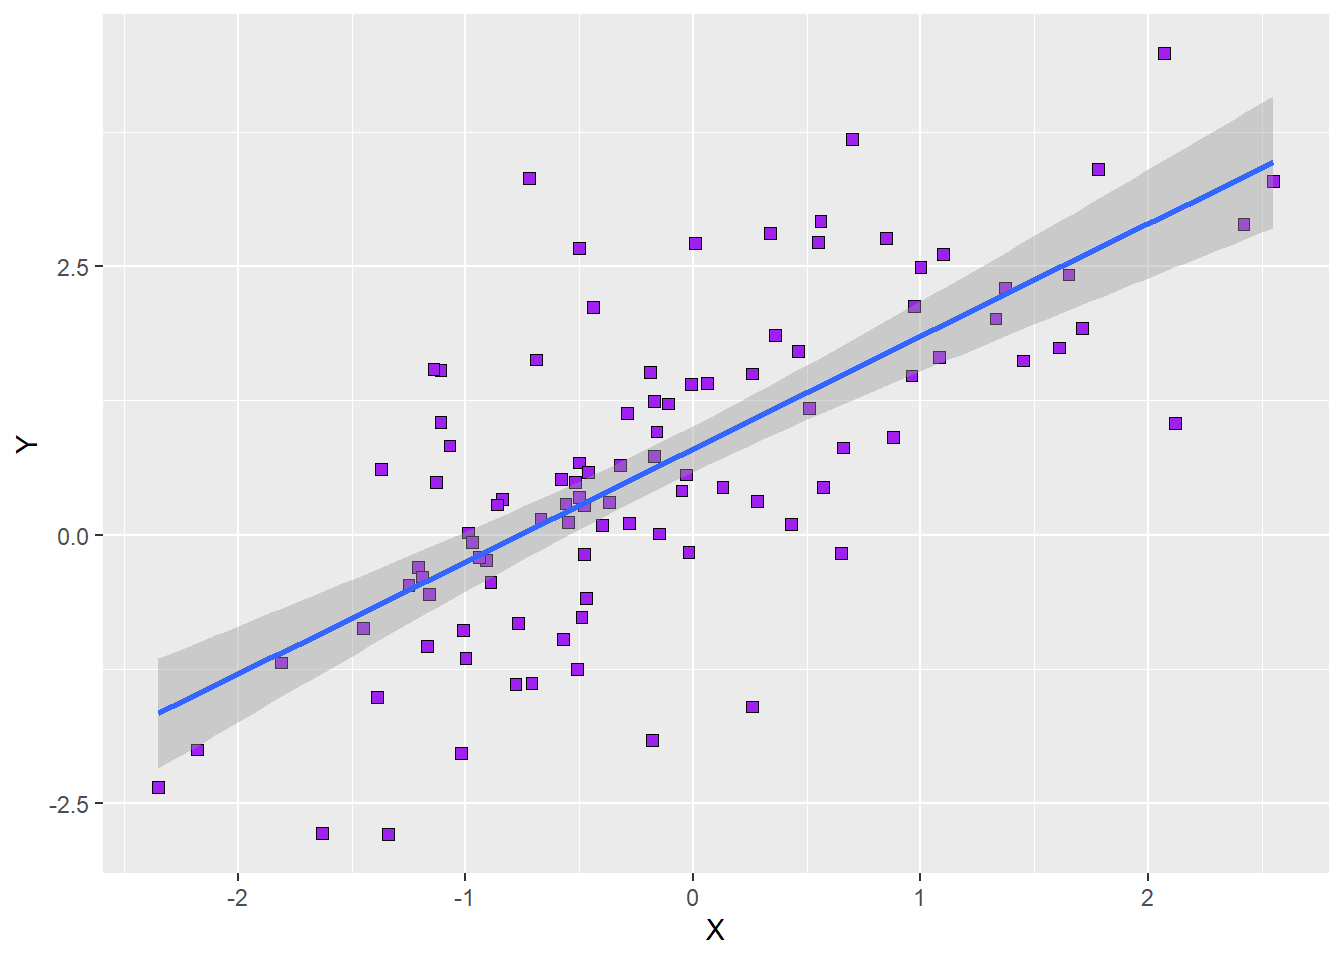
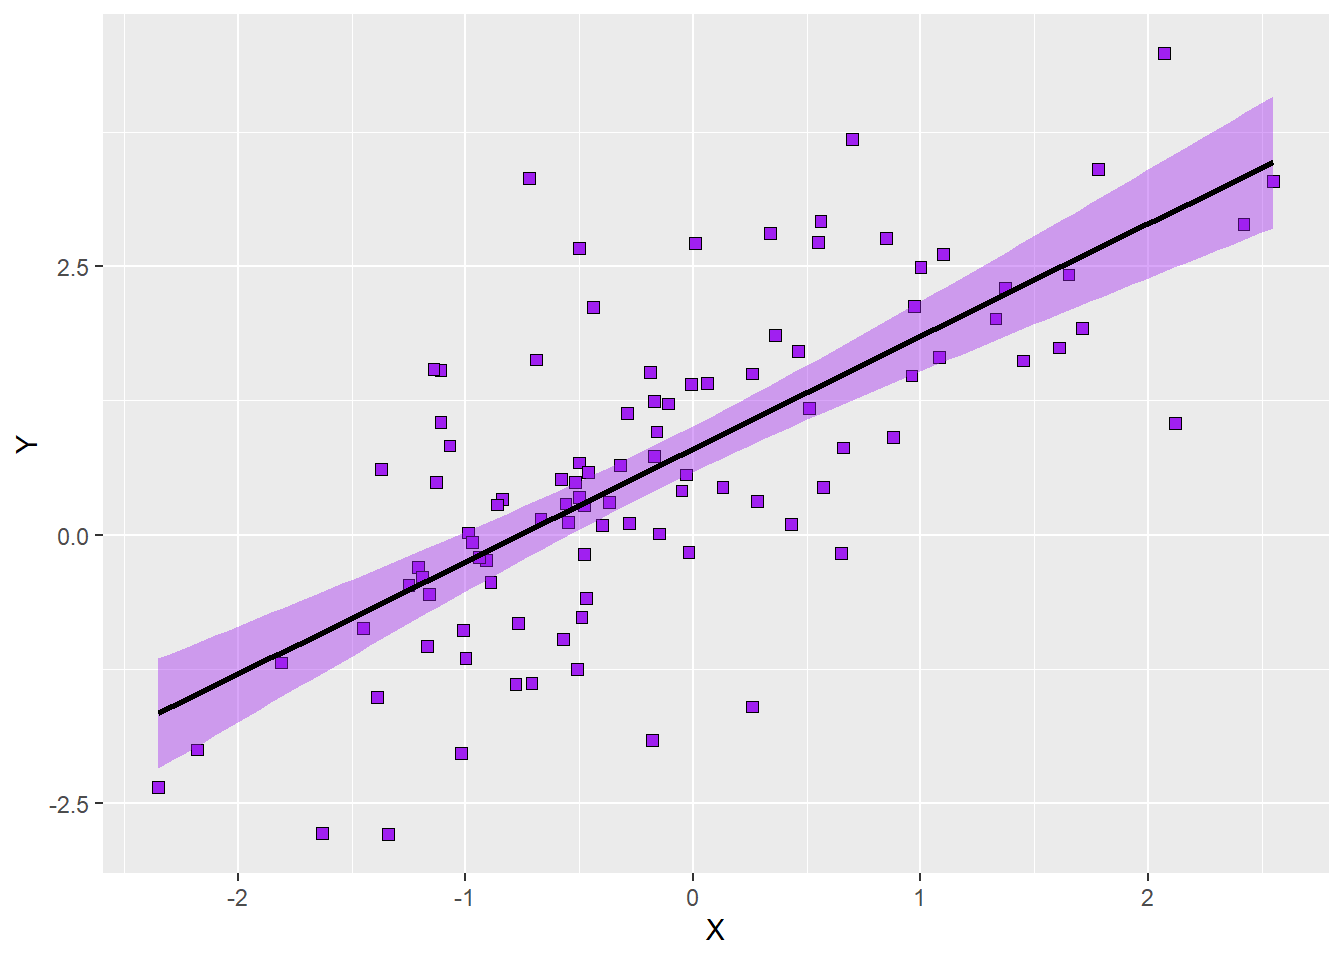
Minor fixed to graphs.

Changed region(s): [[0.0938, 0.0938, 0.9688, 0.8125]]

diff --git a/docs/graphs/graphs2.html b/docs/graphs/graphs2.html
@@ -417,7 +417,7 @@ code span.wa { color: #60a0b0; font-weight: bold; font-style: italic; } /* Warni
 <p><img src="graphs2_files/figure-html/unnamed-chunk-13-1.png" class="img-fluid" width="672"></p>
 </div>
 </div>
-<p>As we can see, we now have the regression line for a simple regression model in the pot, and the grey band around the line represents the 95% confidence interval around the model predictions. It is quite typical for these confidence bands to be slightly narrower at the extremes of our predictor because we usually have fewer extreme data points. This simply means that the prediction errors are slightly larger at the extremes.</p>
+<p>As we can see, we now have the regression line for a simple regression model in the plot, and the grey band around the line represents the 95% confidence interval around the model predictions. It is quite typical for these confidence bands to be slightly narrower at the extremes of our predictor because we usually have fewer extreme data points. This simply means that the prediction errors are slightly larger at the extremes.</p>
 <p>If we do not like the colours <em>ggplot2</em> assign to the regression line per default, we can change it manually inside the <em>geom_smooth</em> function. Keep in mind that defining colours inside the function for a geom only means that we assign this colour to all geoms created by that function. Since we only have one regression line here, that is not an issue. We can change the colour of the regression line using the <em>colour</em> argument while <em>fill</em> allows us to change the colour of the confidence band. Let’s try to set the colour of the regression line to black and the colour of the confidence band to purple so the aesthetics align better with those of the points. Here is the syntax:</p>
 <div class="cell">
 <div class="sourceCode cell-code" id="cb8"><pre class="sourceCode r code-overflow-wrap code-with-copy"><code class="sourceCode r"><span id="cb8-1"><a href="#cb8-1" aria-hidden="true" tabindex="-1"></a><span class="co"># add regression line with confidence band to a scatterplot</span></span>
